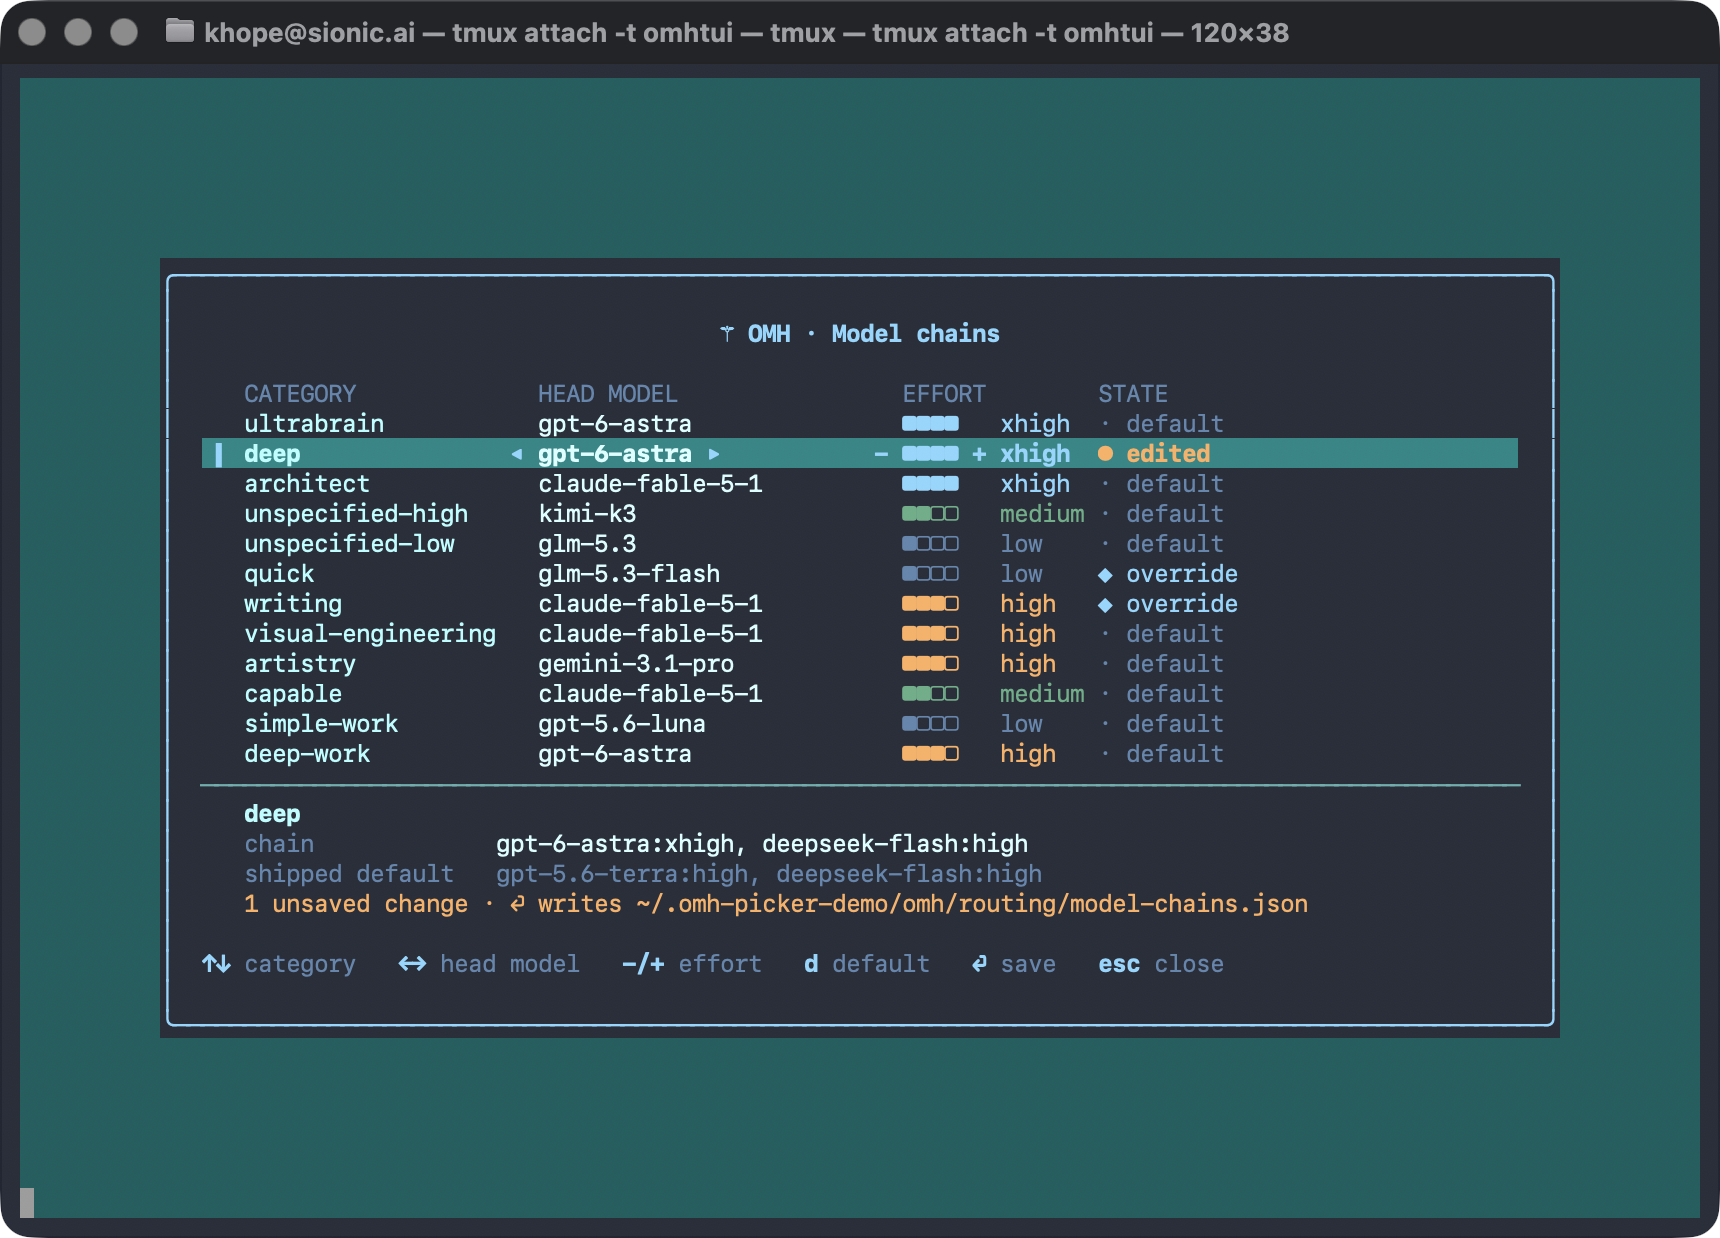
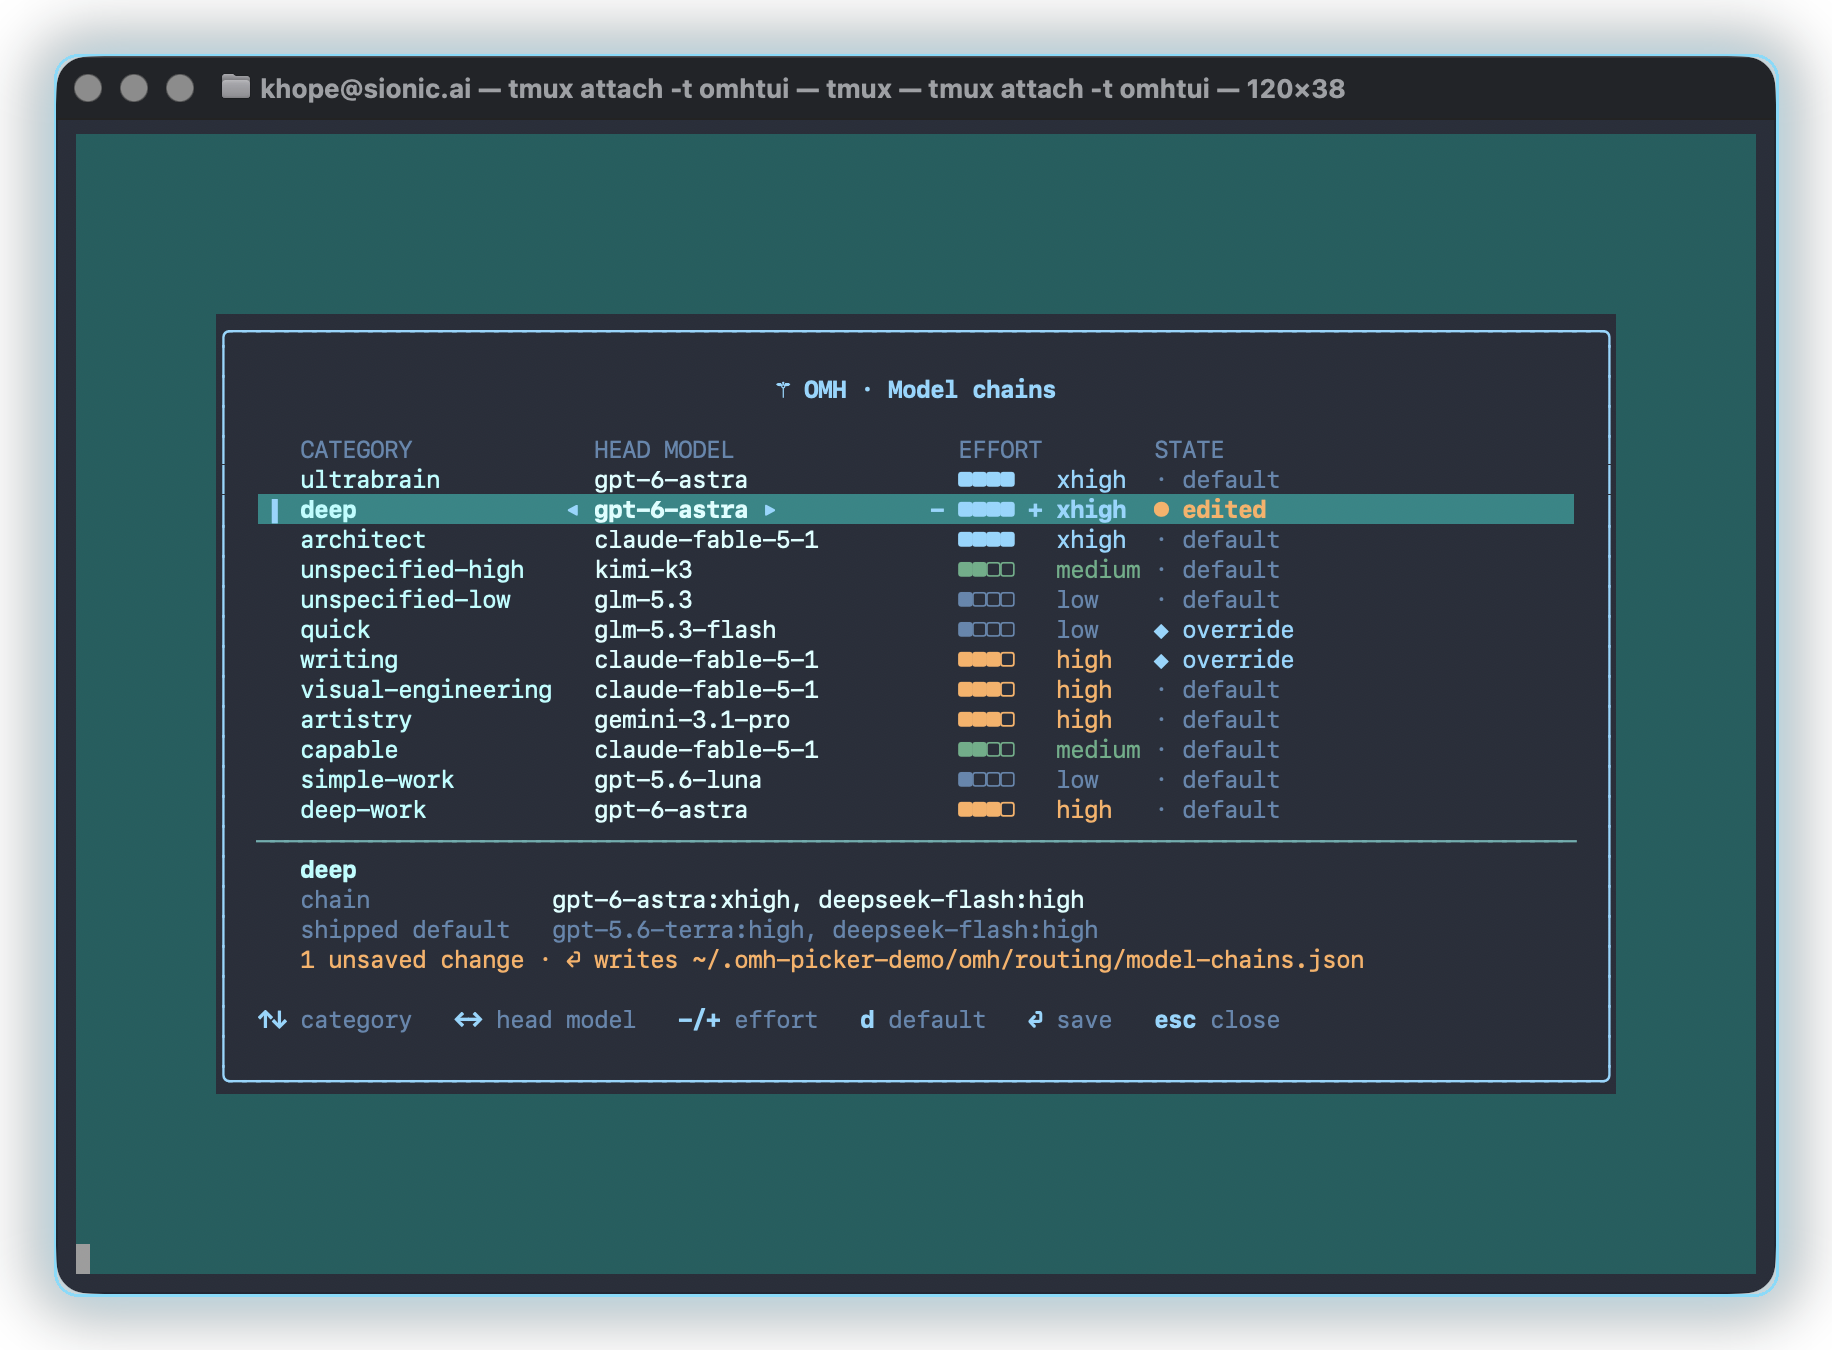
docs(readme): show /omh-model under Recommended models
The Recommended models section lists the chains as a table; the capture of
the picker that edits them now sits centred under the heading, so the table
reads as what the screen shows. The asset gains a light sky-blue aura --
a blurred plate and a thin edge in the skin's title tone, baked into the
PNG because GitHub renders no CSS -- and the same file stays embedded in
INSTALLATION.md and the PR body.

Constraint: markdown on GitHub carries no styling, so the glow lives in the image (Pillow via uvx, one-off; no repo dependency).
Rejected: a separate aura variant of the asset | two files of one screenshot drift; one file serves README, docs and PR.
Confidence: high
Scope-risk: none -- README prose and one asset.
Directive: re-bake the aura from a fresh capture when the modal changes; the plain capture is not kept.
Tested: docs ulw-inventory --check, docs navigation --check, git diff --check, tests/test_ulw_inventory.py, tests/test_tui_widget_pack.py.
Not-tested: nothing further applies.
Claude-Session: https://claude.ai/code/session_01AdPxkU9btxgs2F5AHb6kby

diff --git a/README.md b/README.md
@@ -387,6 +387,10 @@ What the terminal shows while OMH workflows run:
 
 ## Recommended models
 
+<p align="center">
+  <img src="assets/omh-model-tui.png" alt="/omh-model in the Hermes Modern TUI: one row per category with its head model, effort bar and state; the cursor row shows the left/right and -/+ handles" width="820">
+</p>
+
 OMH ships with these editable, ordered recommendation chains. Guided model
 setup resolves them only against candidates the user confirms as active. The
 result is prepared routing configuration, not provider availability,
